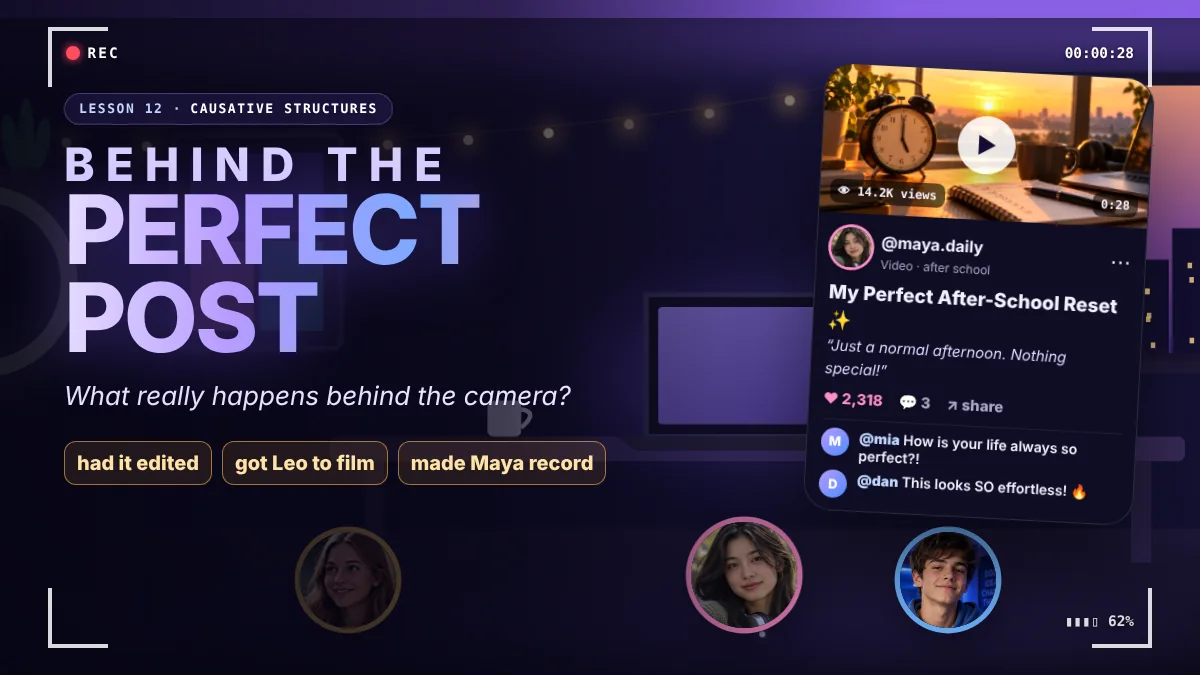
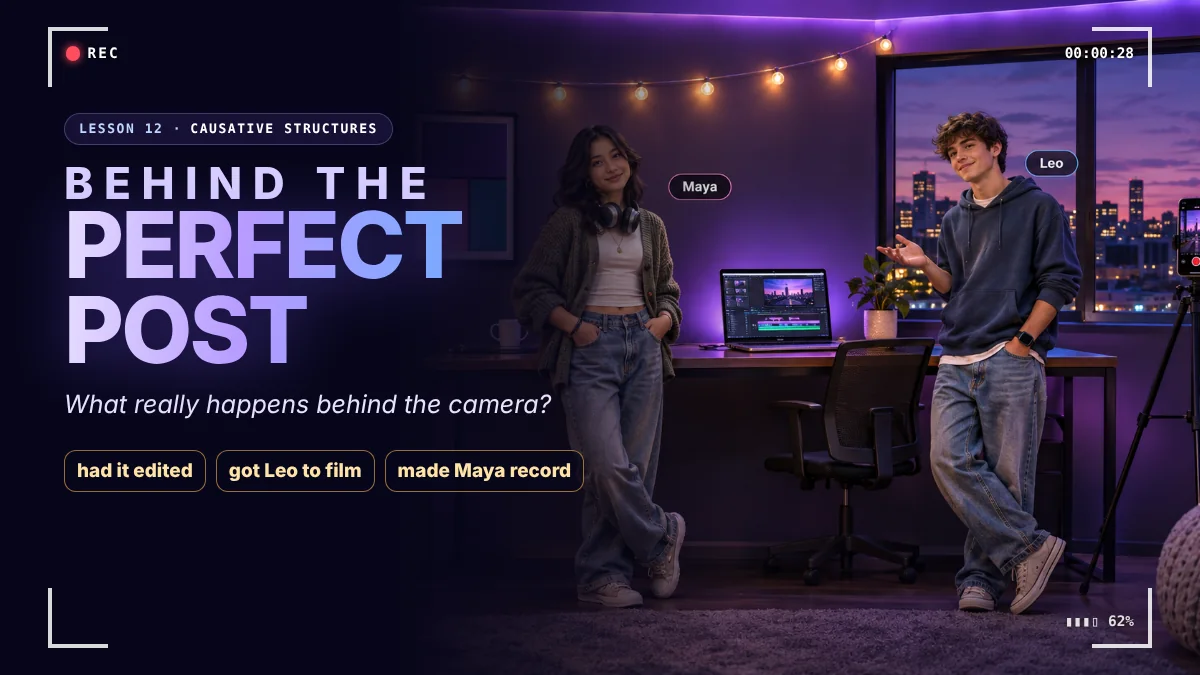
Add files via upload

diff --git a/lessons/lesson-12/lesson-12.html b/lessons/lesson-12/lesson-12.html
@@ -41,10 +41,17 @@ window.LESSON_CONFIG = {
   /* ФОТО СЦЕН — кадр 8:3 (2048×768). Ключ відсутній → сцена малюється кодом (SVG) з героями-кружечками.
      Промпти для реалістичних кадрів — img/PROMPTS.md. Приклад:  studio : 'img/scenes/studio.webp',  */
   SCENE_PHOTOS : {
+    studio  : 'img/scenes/studio.webp',    // Story unlocked · обкладинка
+    filming : 'img/scenes/filming.webp',   // Clue 01 · The Video
+    editing : 'img/scenes/editing.webp',   // Clue 02 · The Helpers · фінал B
+    takes   : 'img/scenes/takes.webp',     // Clue 03 · твіст · місія · фінал A
+    night   : 'img/scenes/night.webp',     // приватне повідомлення · Speaking
+    golden  : 'img/scenes/golden.webp'     // фінал C
   },
-  TITLE_BG     : 'img/bg/desk.webp',
+  TITLE_BG     : 'img/bg/title.webp',
   /* фон усієї сторінки (уже розмитий) для кожного настрою сцени */
-  BACKGROUNDS  : { studio:'img/bg/room.webp', feed:'img/bg/desk.webp', team:'img/bg/room.webp' }
+  BACKGROUNDS  : { feed:'img/bg/studio.webp', studio:'img/bg/filming.webp', edit:'img/bg/editing.webp', discover:'img/bg/takes.webp',
+                   truth:'img/bg/night.webp', team:'img/bg/filming.webp', golden:'img/bg/golden.webp' }
 };
 </script>
 <style>
@@ -1534,6 +1541,18 @@ body.noanim #sky .orb{animation:none}
 
 .howl.two{columns:2;column-gap:28px} .howl.two li{break-inside:avoid}
 
+/* ── real photos ── */
+.scene.photo .ovr.t{top:auto;bottom:3%;width:84%}
+.scene.photo .ovr.r{width:36%;top:auto;bottom:4%;right:1.5%}
+.scene.photo.ph-filming .vf .af{left:24%;top:22%}
+.scene.photo .fx .tw{--s:2.2cqw}
+.scene.photo .fx .pl.soft{animation-duration:5.5s}
+.scene.photo .grade2{position:absolute;inset:0;pointer-events:none;background:linear-gradient(180deg,rgba(6,5,20,0) 60%,rgba(6,5,20,.35))}
+.endvis .scene.photo, .mscene .scene.photo{box-shadow:0 20px 60px rgba(0,0,0,.5)}
+@media (prefers-reduced-motion:reduce){ .scene.photo .kbw,.scene.photo .fx *{animation:none!important} }
+body.noanim .scene.photo .kbw, body.noanim .scene.photo .fx *{animation:none!important}
+.endvis.natural .ba{max-width:72%;margin-inline:auto} .endvis.natural .ba.mt{margin-top:8px} .endvis.natural .bf span{padding:3px;font-size:12px} .endvis.natural .bf small{padding:2px}
+
 </style>
 </head>
 <body data-sc="1" data-sky="title">
@@ -1977,8 +1996,29 @@ const PHOTO_FX = {
   studio:{dust:5, warm:1, sx:'18%'}, filming:{dust:5, warm:1, sx:'18%'}, editing:{dust:4},
   takes:{dust:5, warm:1, sx:'18%'}, night:{dust:3}, golden:{dust:7, warm:1, sx:'50%'}
 };
+/* light that lives on the real photos: fairy-light twinkle, lamps, ring light, screens, REC (x / y = % of the 2048×768 frame) */
+const RING='rgba(255,248,236,.55)', SCRN='rgba(140,110,255,.40)', BLUE='rgba(110,160,255,.34)', REC='rgba(255,70,90,.95)', MOON='rgba(215,222,255,.55)', NEON='rgba(200,120,255,.60)';
+const PHOTO_FX_IMG = {
+  studio:{kbo:'50% 45%', dust:4, warm:1, sx:'20%',
+    twinkle:[[29.4,9.6],[32.6,7.6],[36.4,4.9],[40,1.6]], lamps:[[18.5,51,'9cqw']],
+    pulse:[[6.5,26,RING,'17cqw'],[31.4,20,NEON,'10cqw'],[85.4,3.5,MOON,'6cqw'],[97.3,20.3,REC,'1.8cqw','blink']]},
+  filming:{kbo:'55% 40%', dust:4, warm:1, sx:'14%',
+    twinkle:[[5.9,1.5],[14.2,6.4],[22.9,10],[31.2,12.4],[39.2,14],[46,14],[51.6,13],[57.4,10.7],[62.6,7.9],[66.4,3.8]],
+    pulse:[[13.8,48.6,RING,'19cqw'],[57.3,59,SCRN,'13cqw'],[92.3,51.8,REC,'1.8cqw','blink']]},
+  editing:{kbo:'35% 35%', dust:3, haze:1,
+    twinkle:[[37.9,11.2],[46.3,15.2],[53,17.9],[59.6,19.5],[65.7,19.5],[73.1,19],[80.9,17.4],[88.3,14.5]],
+    lamps:[[86.1,51,'12cqw'],[8.8,88,'9cqw']], pulse:[[19.3,15.2,MOON,'7cqw'],[67.3,44,BLUE,'22cqw']]},
+  takes:{kbo:'50% 40%', dust:5, warm:1, sx:'58%',
+    lamps:[[40.3,35,'10cqw']], pulse:[[9.3,27.3,RING,'19cqw'],[49.9,10.7,NEON,'11cqw'],[67.3,37,BLUE,'15cqw'],[96.3,43,'rgba(255,120,170,.45)','5cqw']]},
+  night:{kbo:'30% 40%', dust:3, haze:1,
+    lamps:[[50.5,31,'12cqw'],[97.5,58.7,'10cqw']], pulse:[[87.9,7.6,MOON,'7cqw'],[75.8,48.7,SCRN,'13cqw']]},
+  golden:{kbo:'50% 40%', dust:7, warm:1, sx:'55%',
+    twinkle:[[21,9.3],[23.9,10.9],[26.8,11.3],[29.8,10.7],[69.5,8.3],[71.8,10.7],[74.8,12.7],[78,13.7],[81.3,13.3],[84.5,12.9],[87.5,11.3],[90.5,9.1],[93,6.7],[95.3,4.7]],
+    lamps:[[15.9,41.3,'9cqw']], pulse:[[5.8,34,RING,'17cqw']]}
+};
 function fxHTML(F){ let h=''; const r=mulberry(F.dust||3);
   if(F.haze) h+=`<i class="haze"></i>`;
+  if(F.sun) h+=`<i class="glow sun" style="left:${F.sun[0]}%;top:${F.sun[1]}%"></i>`;
   if(F.warm) h+=`<i class="warm" style="--sx:${F.sx||'50%'}"></i>`;
   (F.lamps||[]).forEach(([x,y,w],i)=>h+=`<i class="glow" style="left:${x}%;top:${y}%;--w:${w||'14cqw'};--d:${(i*.9).toFixed(1)}s"></i>`);
   (F.pulse||[]).forEach(([x,y,c,w,k],i)=>h+=`<i class="pl ${k||'soft'}" style="left:${x}%;top:${y}%;--c:${c};--w:${w};--d:-${(i*.7).toFixed(1)}s"></i>`);
@@ -1991,7 +2031,8 @@ function scene(kind, o={}){
   const imgTag=(src,cls='art',pos)=>`<img class="${cls}" src="${esc(src)}" alt="" ${pos?`style="object-position:${pos}"`:''} onerror="this.remove()">`;
   const pid=o.id||kind, F=PHOTO_FX[pid]||{};
   if(SCENE_PH[pid]){ const P=typeof SCENE_PH[pid]==='string'?{src:SCENE_PH[pid]}:SCENE_PH[pid];
-    return `<div class="scene photo${o.sq?' sq':''}" style="${o.sh?'--sh:'+o.sh+';':''}${o.style||''}"><div class="kbw">${imgTag(P.src)}${fxHTML({dust:F.dust})}</div>${o.whoOnPhoto?peopleHTML(o,o.size||12,o.gy||'7%'):''}${o.cap?`<span class="cap">${esc(o.cap)}</span>`:''}${o.over||''}</div>`; }
+    const FI=PHOTO_FX_IMG[pid]||{dust:F.dust};
+    return `<div class="scene photo ph-${esc(pid)}${o.sq?' sq':''}" style="${o.sh?'--sh:'+o.sh+';':''}${FI.kbo?'--kbo:'+FI.kbo+';':''}${o.style||''}"><div class="kbw">${imgTag(P.src)}${fxHTML(FI)}</div>${o.whoOnPhoto?peopleHTML(o,o.size||12,o.gy||'7%'):''}${o.cap?`<span class="cap">${esc(o.cap)}</span>`:''}${o.over||''}</div>`; }
   const bg=(ART[kind]||ART.studio)(o)+(SCENE_IMG[kind]?imgTag(SCENE_IMG[kind],'art',o.pos||'50% 70%'):'');
   const gy=o.gy || '7%', size=o.size||12, ppl=peopleHTML(o, size, gy);
   const bub = o.bubble ? (()=>{ const w=(o.who||[]).find(x=>x[0]===o.bubble[0]); if(!w) return ''; const sz=((w[2]||{}).sz||1)*size; return `<div class="bubble${o.think?' think':''}" style="left:${w[1]}%;bottom:calc(${(w[2]||{}).gy||gy} + ${f1(sz+4.2)}cqw)">${esc(o.bubble[1])}</div>`; })() : '';
@@ -2577,7 +2618,7 @@ blockStep('recall',{ pre:()=>`<div class="ctxline"><span class="avs">${av('maya'
 { id:'unlock', sc:2, title:'Story unlocked', sky:'studio',
   render(){ return scn(this)+`<div class="unlock center"><div class="lockic" aria-hidden="true">🔓</div><h1 class="h-xl ul">STORY <span class="grad">UNLOCKED</span></h1>
       <p class="lead" style="margin:14px auto 0;text-align:center">${esc(UNLOCK.s)}</p>
-      <div class="mt">${scene('studio',{sh:'21vh', who:[['maya',62,{sz:1.05}],['leo',78,{sz:.95}],['ava',30,{sz:.95}]], size:10, names:false, over:viewfinder({tc:'00:00:00'})})}</div>
+      <div class="mt">${scene('studio',{sh:'29vh', who:[['maya',62,{sz:1.05}],['leo',78,{sz:.95}],['ava',30,{sz:.95}]], size:10, names:false, over:viewfinder({tc:'00:00:00'})})}</div>
       <div class="mt"><button class="btn big gold" id="goBts">🎬 ${esc(UNLOCK.b)}</button></div></div>`; },
   after(v){ const b=$('#goBts',v); if(b) b.onclick=()=>{ lightsDown(); setTimeout(next, S.noanim||REDUCED_OS?0:650); }; },
   enter(){ setTimeout(()=>{ if(cur().id==='unlock') sparkle(); },300); },

diff --git a/lessons/lesson-12/README.md b/lessons/lesson-12/README.md
@@ -7,10 +7,11 @@ Unit 2 · **граматичний урок: Causative Structures** + повто
 ```
 lessons/lesson-12/
 ├── lesson-12.html     увесь урок (один файл, vanilla JS, без збірки — рушій уроків 5–26)
-├── img/cast/          maya · leo · ava
+├── img/scenes/        6 реалістичних кадрів 2048×768 (studio, filming, editing, takes, night, golden)
+├── img/cast/          maya · leo · ava (аватарка Ави вирізана з кадру golden, 512×512)
 ├── img/feed/          reset.webp — кадр «ідеального» відео Майї
-├── img/bg/            розмиті фони сторінки (room, desk)
-├── img/PROMPTS.md     промпти, якщо захочете замінити намальовані сцени реалістичними фото
+├── img/bg/            розмиті фони сторінки для кожного настрою + title.webp (лобі)
+├── img/PROMPTS.md     промпти для кадрів (якщо захочете перегенерувати)
 └── img/cover.webp     обкладинка картки на платформі
 ```
 
@@ -22,7 +23,7 @@ lessons/lesson-12/
 | **Leo**, 15 | друг, знімає відео | знаходить смішні оригінальні кліпи |
 | **Ava**, 15 | подруга, монтажерка | додала фільтр і змусила Майю перезаписувати початок |
 
-Майя — те саме фото, що й в уроці 26; Лео — той самий, що в усьому курсі; для Ави взято фото з уроку 18 (там це епізодична однокласниця). Хочете іншу Аву — покладіть `img/cast/ava.webp` (квадрат), промпт у `img/PROMPTS.md`.
+Майя — те саме фото, що й в уроці 26; Лео — той самий, що в усьому курсі; аватарка Ави вирізана з нового кадру `golden`, тож вона збігається з Авою на всіх сценах.
 
 ## Структура (≈45 хв)
 
@@ -62,4 +63,17 @@ lessons/lesson-12/
 
 ## Картинки
 
-Сцени (кімната-студія Майї, монтаж Ави, невдалі дублі, вечір, золота година) намальовані кодом із героями-кружечками, тож урок працює без жодного зовнішнього файлу. Щоб замінити сцену реалістичним фото: згенеруйте кадр 2048×768 за промптом з `img/PROMPTS.md`, покладіть у `img/scenes/` і допишіть рядок у `LESSON_CONFIG.SCENE_PHOTOS`.
+Сцени — реалістичні кадри 8:3 (`img/scenes/`), підключені в `LESSON_CONFIG.SCENE_PHOTOS`:
+
+| Кадр | Де в уроці |
+|---|---|
+| studio | Story unlocked |
+| filming | Clue 01 · The Video (Maya + Leo) · обкладинка |
+| editing | Clue 02 · The Helpers, фінал B (Maya + Ava) |
+| takes | Clue 03, твіст, місія, фінал A (усі троє, TAKE 17) |
+| night | приватне повідомлення Майї, Speaking |
+| golden | фінал C (усі троє на дивані) |
+
+Імена героїв уже є на самих кадрах. Поверх фото урок додає анімацію світла: мерехтіння гірлянд, дихання ring light, ламп і екранів, блимання REC на телефонах, легкий «пил» у повітрі та повільний наїзд камери. Координати вогників — `PHOTO_FX_IMG` у розділі «3 · art» (x / y у % кадру). У режимі «менше анімацій» усе це вимикається.
+
+Фони сторінки — ті самі кімнати без людей, розмиті й затемнені (`img/bg/`, `LESSON_CONFIG.BACKGROUNDS`): кожна сцена уроку має свій настрій. Щоб замінити кадр — покладіть файл 2048×768 з тією самою назвою в `img/scenes/`.

diff --git a/lessons/lesson-12/img/PROMPTS.md b/lessons/lesson-12/img/PROMPTS.md
@@ -1,6 +1,6 @@
 # Lesson 12 — промпти для кадрів
 
-Зараз усі сцени намальовані кодом (SVG) з фото героїв у кружечках. Якщо захочете реалістичні кадри — ось промпти.
+Усі 6 сцен уже замінено реалістичними кадрами (`img/scenes/`). Промпти лишаються тут — якщо захочете перегенерувати якийсь кадр.
 
 **Формат:** 2048 × 768 (8:3), без тексту, написів, логотипів і інтерфейсів соцмереж на зображенні.
 **Щоб герої були ті самі:** додайте до генератора фото з `img/cast/` як референси (maya.webp, leo.webp, ava.webp).
